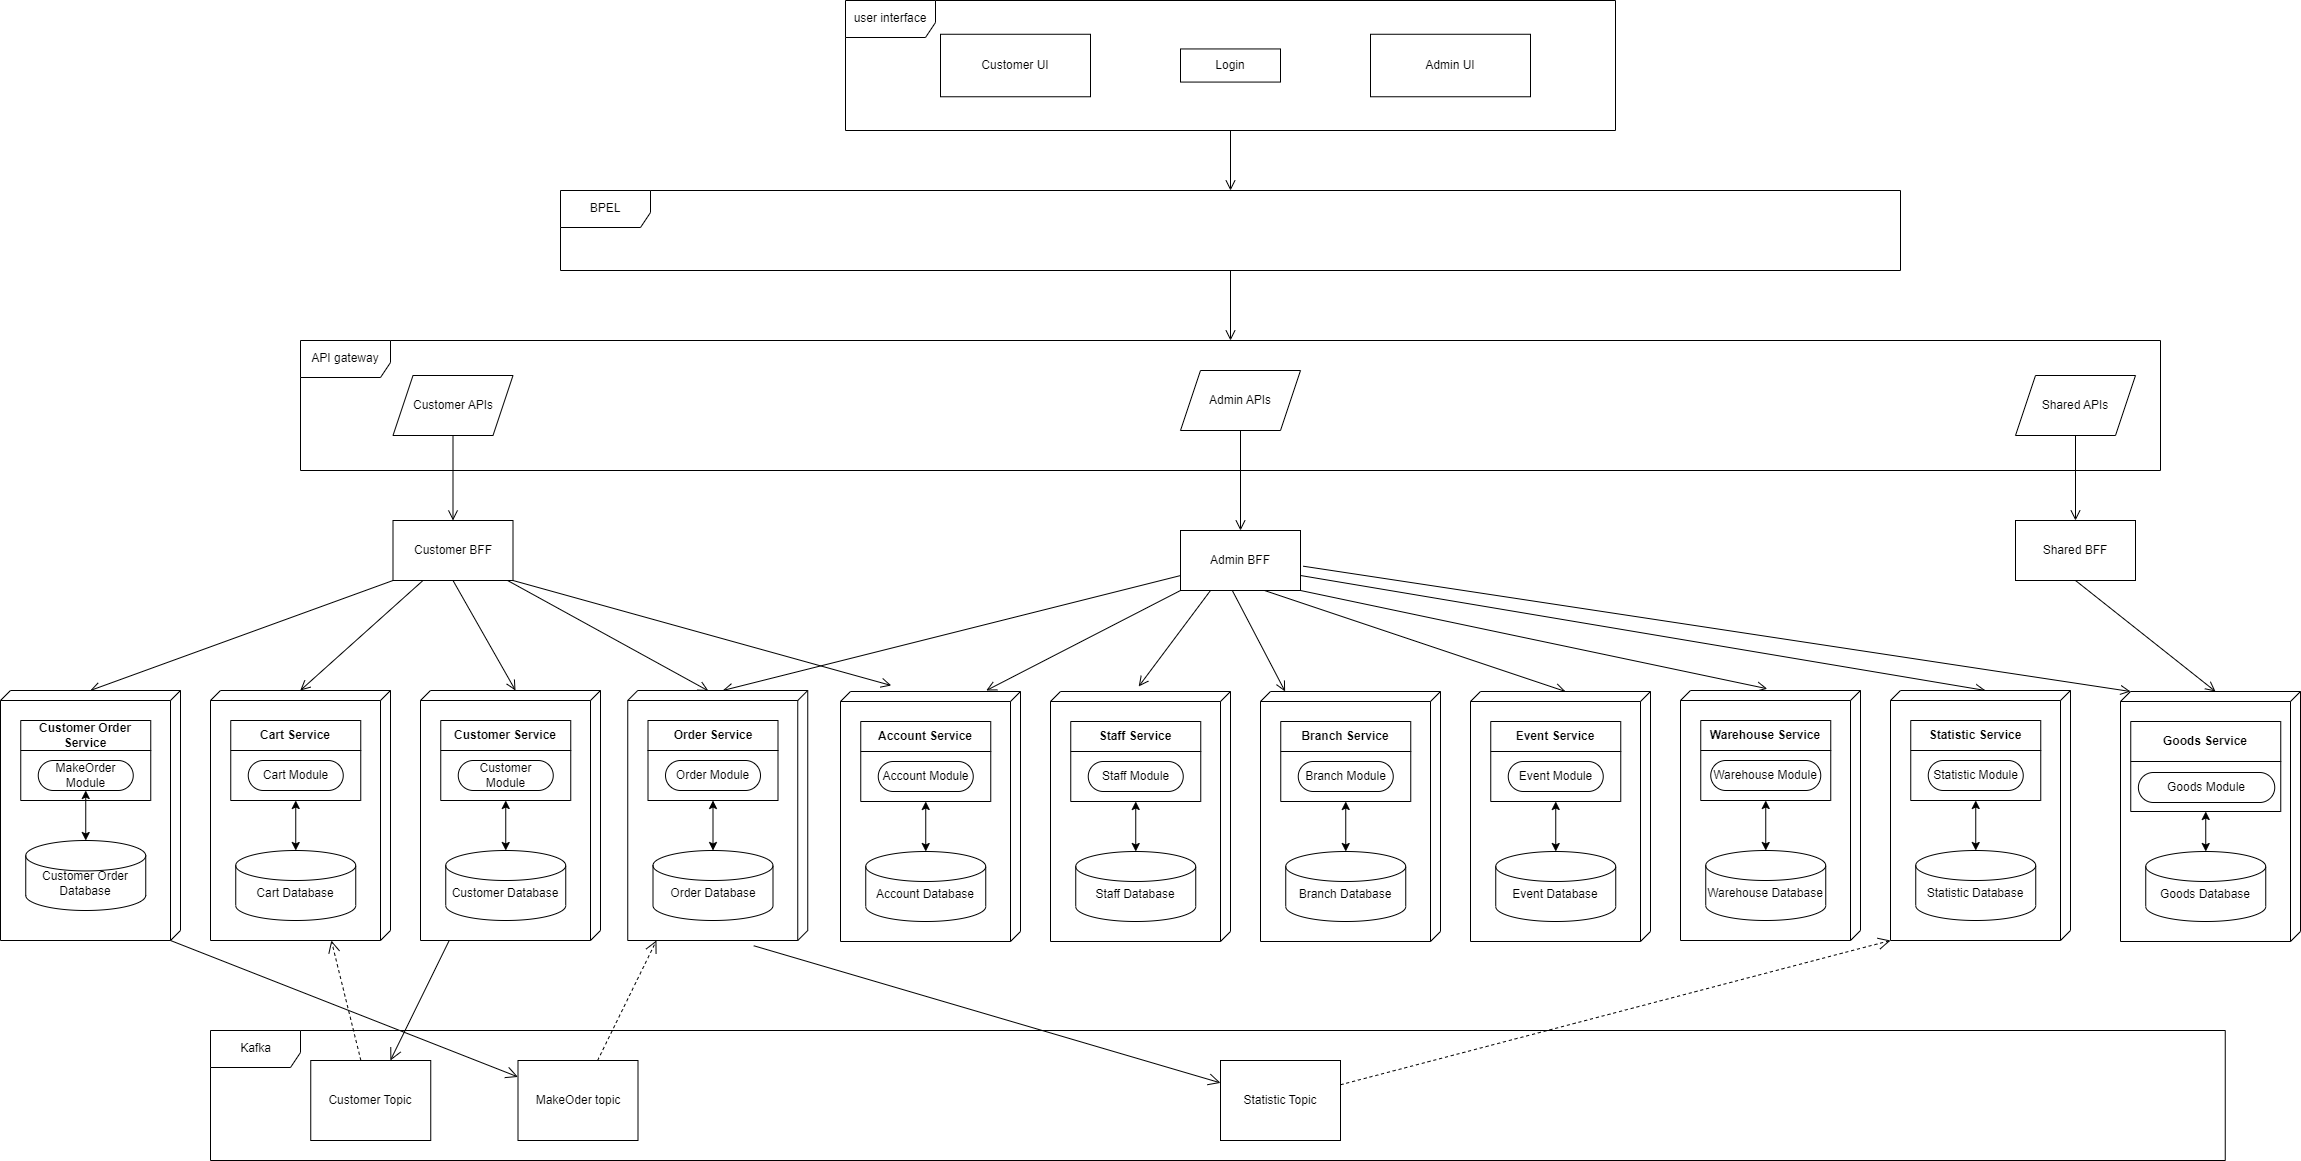
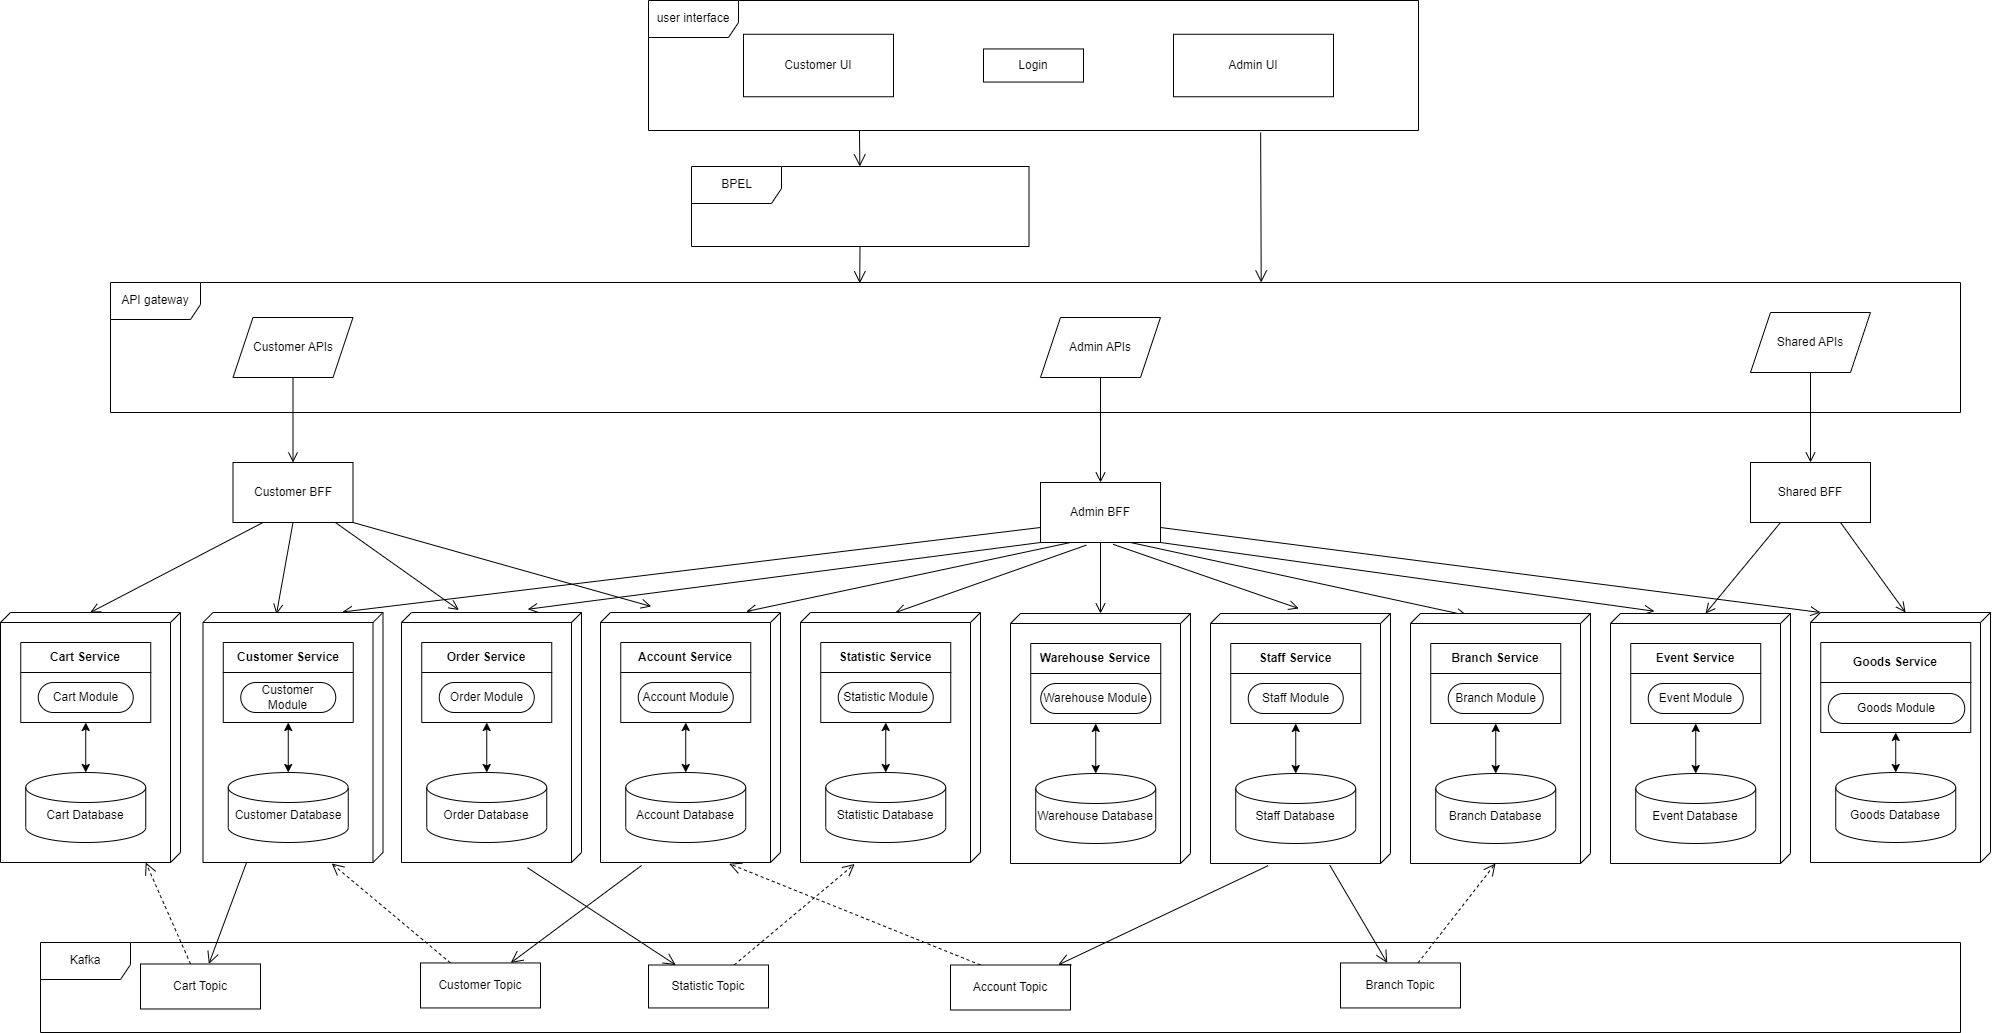
update archi

diff --git a/main.tex b/main.tex
@@ -350,13 +350,13 @@
 
 %%%%%%%%%%%%%%%%%%%%%%%%%%%%%%%%%%%%
 
-% % Cơ sở lý thuyết
+%% Cơ sở lý thuyết
 % \chapter{Cơ sở lý thuyết}
 % \input{tex/theory}
 
-% %%%%%%%%%%%%%%%%%%%%%%%%%%%%%%%%%%%%
+%%%%%%%%%%%%%%%%%%%%%%%%%%%%%%%%%%%%
 
-% \chapter{Thiết kế hệ thống}
+\chapter{Thiết kế hệ thống}
 % % Requirement
 % \input{tex/Requirement}
 
@@ -368,9 +368,9 @@
 % % % BPMN
 % \input{tex/BPMN-diagram}
 % % 
-% % \newpage
-% % % Architecture
-% \input{tex/architecture}
+% \newpage
+% % Architecture
+\input{tex/architecture}
 
 % % \newpage
 % % % Database
@@ -380,7 +380,7 @@
 % % UI
 % \input{tex/UI}
 
-% %%%%%%%%%%%%%%%%%%%%%%%%%%%%%%%%%%%%
+%%%%%%%%%%%%%%%%%%%%%%%%%%%%%%%%%%%%
 
 \chapter{Công nghệ}
 % technology

diff --git a/tex/architecture.tex b/tex/architecture.tex
@@ -86,7 +86,7 @@ Từ những thông tin trên, để phù hợp với hệ thống, nhóm chọn
  
 \begin{figure}[!htp]
     \centering
-    \includegraphics[width=6in]{img/Architecture/general-architect.png}
+    \includegraphics[width=18cm]{img/Architecture/general-architect.png}
     \newline
     \caption{Tổng quan kiến trúc hệ thống}
 \end{figure}
